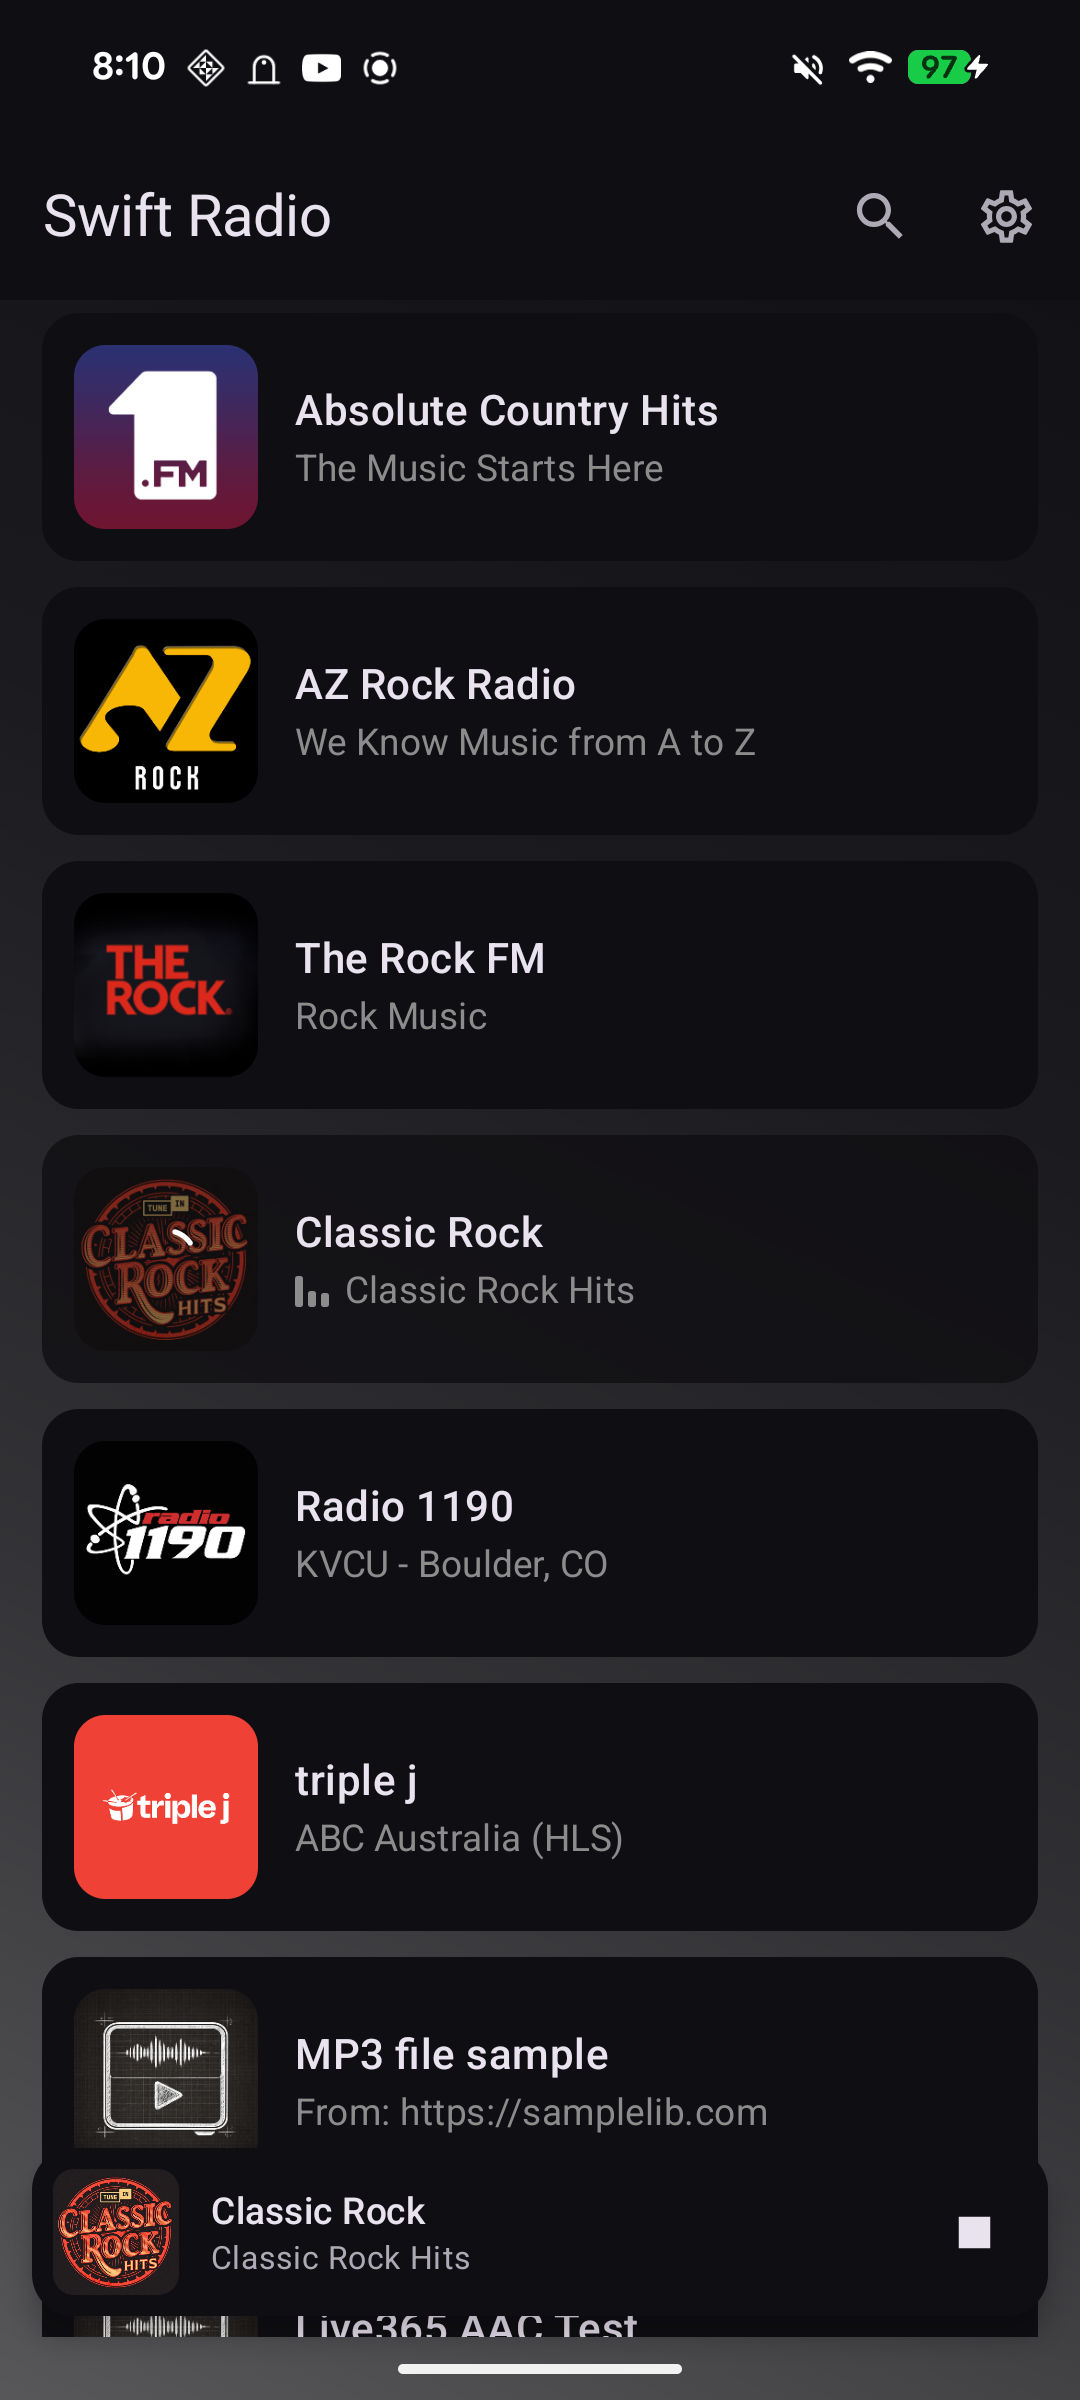
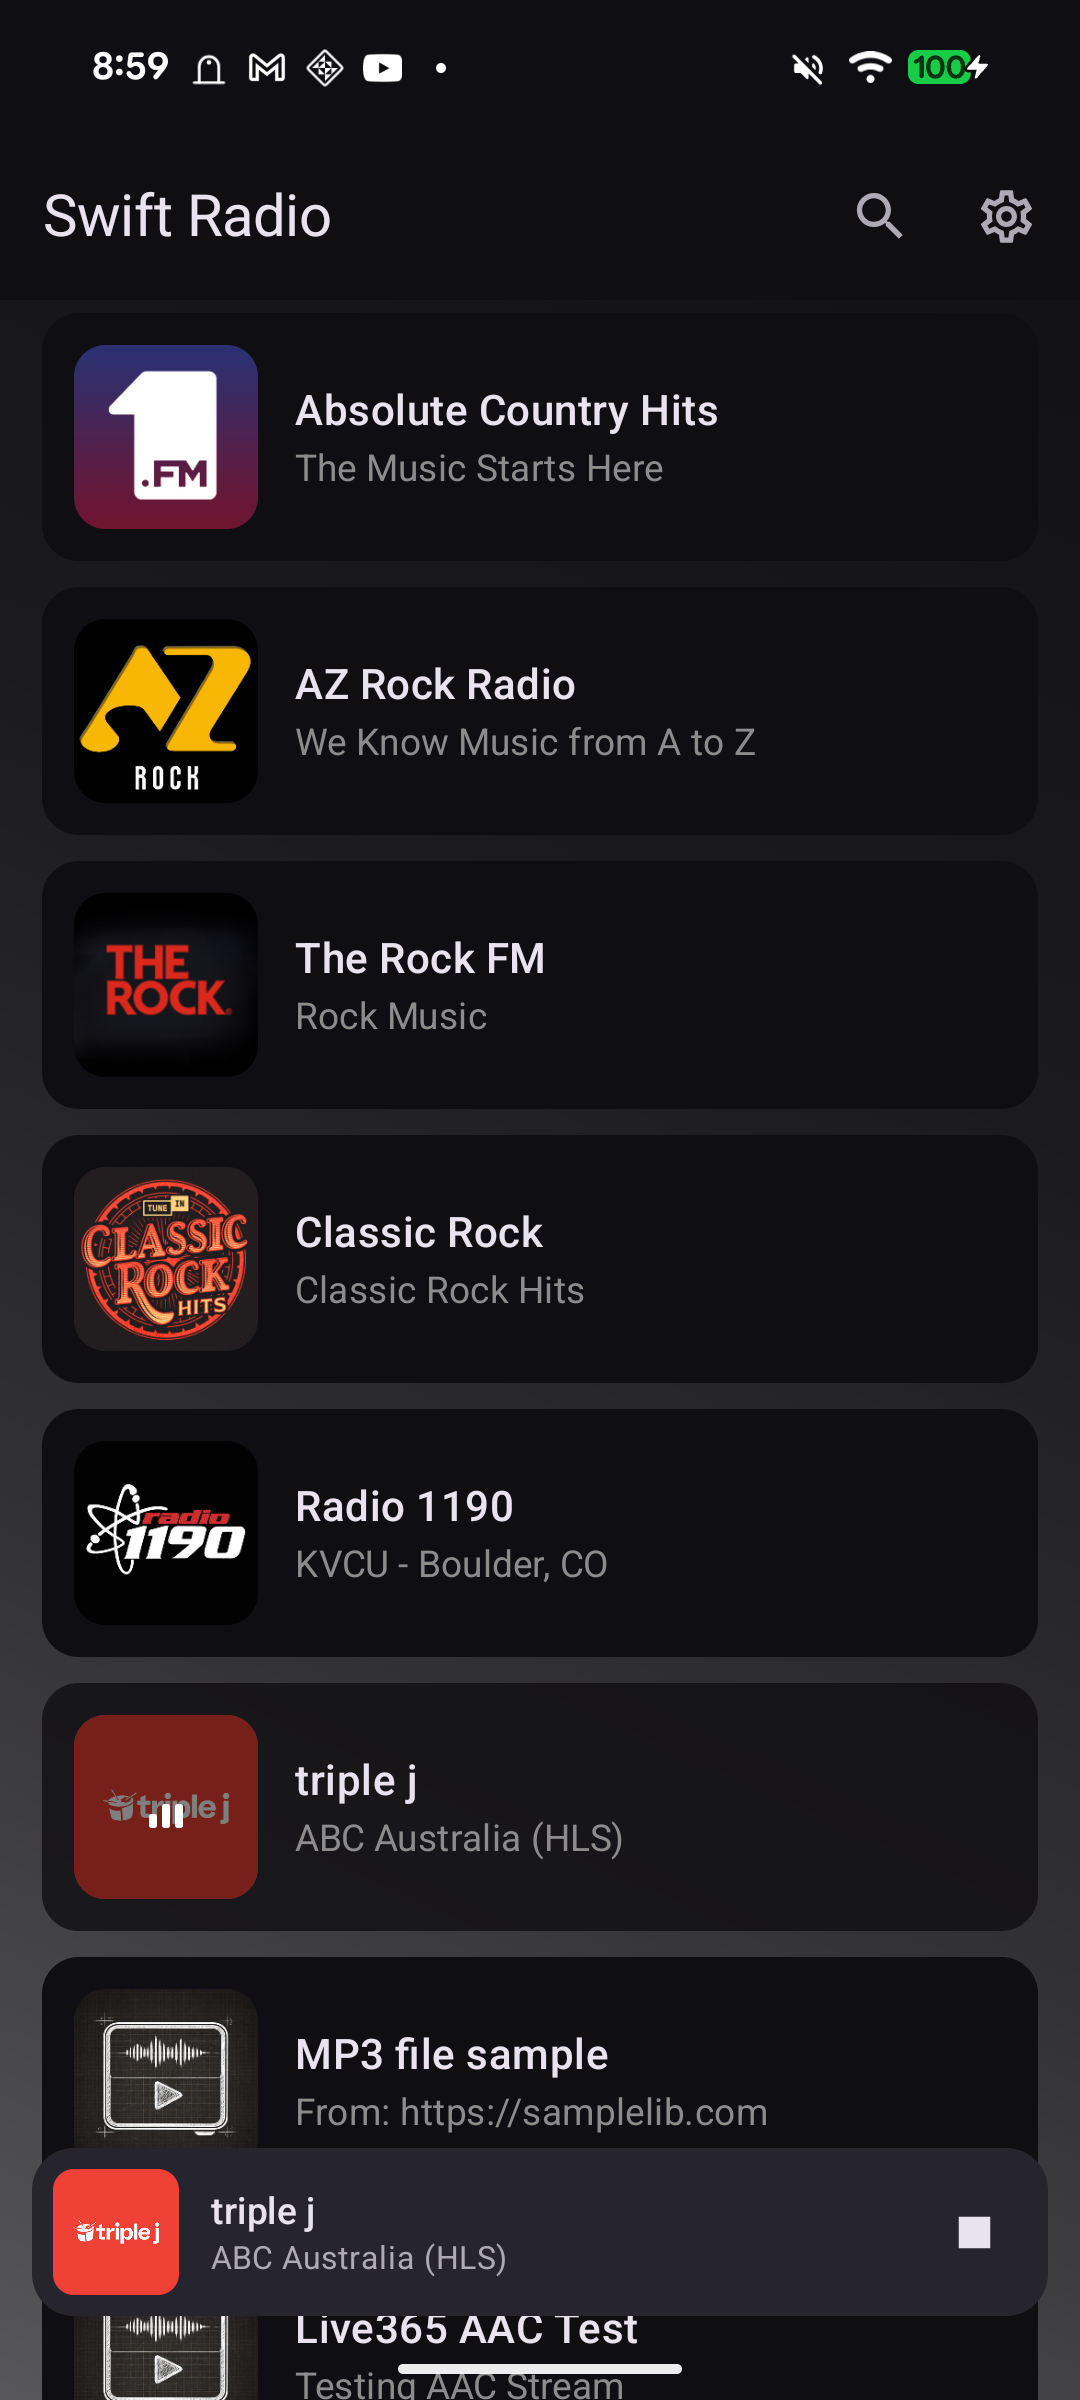
Run the list under the gesture area, lift the bar a tone above the cards, and draw the playing bars on the station artwork

diff --git a/app/src/main/java/com/fethica/swiftradio/ui/StationsScreen.kt b/app/src/main/java/com/fethica/swiftradio/ui/StationsScreen.kt
@@ -17,6 +17,7 @@ import androidx.compose.foundation.layout.fillMaxSize
 import androidx.compose.foundation.layout.fillMaxWidth
 import androidx.compose.foundation.layout.padding
 import androidx.compose.foundation.layout.PaddingValues
+import androidx.compose.foundation.layout.WindowInsets
 import androidx.compose.foundation.layout.size
 import androidx.compose.foundation.layout.width
 import androidx.compose.foundation.lazy.LazyColumn
@@ -67,7 +68,7 @@ import coil3.request.crossfade
 import com.fethica.swiftradio.Config
 import com.fethica.swiftradio.R
 import com.fethica.swiftradio.data.RadioStation
-import com.fethica.swiftradio.ui.components.EqualizerAnimation
+import com.fethica.swiftradio.ui.components.ArtworkPlaybackOverlay
 import com.fethica.swiftradio.ui.components.GradientBackground
 import com.fethica.swiftradio.ui.theme.SubtitleGray
 
@@ -103,6 +104,13 @@ fun StationsScreen(
     }
 
     Scaffold(
+        // The popup host owns the bottom edge: the padding it hands this screen
+        // already covers the navigation bar and the now playing bar, and the
+        // list is meant to scroll under both. Left to its default, the scaffold
+        // padded its content above the gesture area and its container color
+        // showed through as a band under the bar. The top app bar keeps its own
+        // status bar inset.
+        contentWindowInsets = WindowInsets(0, 0, 0, 0),
         topBar = {
             TopAppBar(
                 title = { Text(stringResource(R.string.app_title)) },
@@ -279,26 +287,14 @@ private fun StationRow(
                     modifier = Modifier.fillMaxSize()
                 )
 
-                // Buffering overlay on artwork
-                Crossfade(
-                    targetState = isBuffering,
-                    label = "bufferingOverlay"
-                ) { buffering ->
-                    if (buffering) {
-                        Box(
-                            modifier = Modifier
-                                .fillMaxSize()
-                                .background(Color.Black.copy(alpha = 0.5f)),
-                            contentAlignment = Alignment.Center
-                        ) {
-                            CircularProgressIndicator(
-                                color = Color.White,
-                                modifier = Modifier.size(24.dp),
-                                strokeWidth = 2.dp
-                            )
-                        }
-                    }
-                }
+                // Playing bars or a buffering spinner sit on the artwork, so
+                // the text column keeps its layout whichever row is current.
+                ArtworkPlaybackOverlay(
+                    isBuffering = isBuffering,
+                    isCurrent = isCurrentStation,
+                    isPlaying = isPlaying,
+                    modifier = Modifier.fillMaxSize()
+                )
             }
 
             Spacer(modifier = Modifier.width(14.dp))
@@ -310,25 +306,13 @@ private fun StationRow(
                     maxLines = 1,
                     overflow = TextOverflow.Ellipsis
                 )
-                Row(
-                    verticalAlignment = Alignment.CenterVertically
-                ) {
-                    if (isCurrentStation) {
-                        EqualizerAnimation(
-                            isAnimating = isPlaying,
-                            barColor = SubtitleGray,
-                            modifier = Modifier.height(12.dp)
-                        )
-                        Spacer(modifier = Modifier.width(6.dp))
-                    }
-                    Text(
-                        text = station.desc,
-                        style = MaterialTheme.typography.bodyMedium,
-                        color = SubtitleGray,
-                        maxLines = 1,
-                        overflow = TextOverflow.Ellipsis
-                    )
-                }
+                Text(
+                    text = station.desc,
+                    style = MaterialTheme.typography.bodyMedium,
+                    color = SubtitleGray,
+                    maxLines = 1,
+                    overflow = TextOverflow.Ellipsis
+                )
             }
         }
     }

diff --git a/app/src/main/java/com/fethica/swiftradio/ui/components/ArtworkPlaybackOverlay.kt b/app/src/main/java/com/fethica/swiftradio/ui/components/ArtworkPlaybackOverlay.kt
@@ -1,0 +1,64 @@
+package com.fethica.swiftradio.ui.components
+
+import androidx.compose.animation.Crossfade
+import androidx.compose.foundation.background
+import androidx.compose.foundation.layout.Box
+import androidx.compose.foundation.layout.fillMaxSize
+import androidx.compose.foundation.layout.height
+import androidx.compose.foundation.layout.size
+import androidx.compose.material3.CircularProgressIndicator
+import androidx.compose.runtime.Composable
+import androidx.compose.ui.Alignment
+import androidx.compose.ui.Modifier
+import androidx.compose.ui.graphics.Color
+import androidx.compose.ui.unit.dp
+
+/**
+ * Playback state drawn on top of the current station artwork.
+ *
+ * Buffering shows a spinner; the current item shows an equalizer that animates
+ * while playing and holds still while paused; non-current artwork shows
+ * nothing. It lives on the artwork because that is the element rows and cards
+ * have in common, so the states share one visual language instead of competing.
+ */
+@Composable
+fun ArtworkPlaybackOverlay(
+    isBuffering: Boolean,
+    isCurrent: Boolean,
+    isPlaying: Boolean,
+    modifier: Modifier = Modifier
+) {
+    val state = when {
+        isCurrent && isBuffering -> OverlayState.BUFFERING
+        isCurrent -> OverlayState.ACTIVE
+        else -> OverlayState.IDLE
+    }
+
+    Crossfade(targetState = state, label = "artworkPlaybackOverlay", modifier = modifier) { current ->
+        if (current != OverlayState.IDLE) {
+            Box(
+                modifier = Modifier
+                    .fillMaxSize()
+                    .background(Color.Black.copy(alpha = 0.5f)),
+                contentAlignment = Alignment.Center
+            ) {
+                if (current == OverlayState.BUFFERING) {
+                    CircularProgressIndicator(
+                        color = Color.White,
+                        modifier = Modifier.size(24.dp),
+                        strokeWidth = 2.dp
+                    )
+                } else {
+                    // Bars hold still while the current station is paused.
+                    EqualizerAnimation(
+                        isAnimating = isPlaying,
+                        barColor = Color.White,
+                        modifier = Modifier.height(16.dp)
+                    )
+                }
+            }
+        }
+    }
+}
+
+private enum class OverlayState { IDLE, BUFFERING, ACTIVE }

diff --git a/app/src/main/java/com/fethica/swiftradio/MainActivity.kt b/app/src/main/java/com/fethica/swiftradio/MainActivity.kt
@@ -112,7 +112,10 @@ class MainActivity : ComponentActivity() {
                     PopupHost(
                         state = popupState,
                         modifier = Modifier.fillMaxSize(),
-                        containerColor = MaterialTheme.colorScheme.surface,
+                        // A step lighter than the station cards, so the bar reads
+                        // as a player docked over the list and not as one more
+                        // row. The expanded player paints its own background.
+                        containerColor = MaterialTheme.colorScheme.surfaceVariant,
                         popupBar = {
                             val labels = nowPlayingLabels(
                                 stationName = currentStation?.name.orEmpty(),
